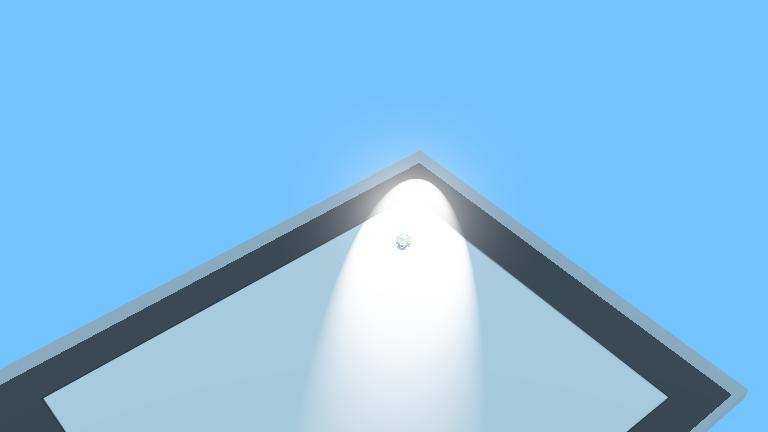
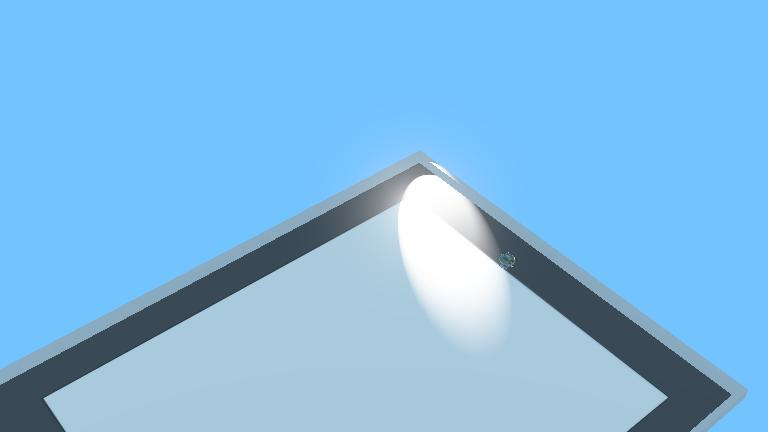
Fixed the Supervisor Node

Changed region(s): [[0.4062, 0.3611, 0.6875, 1.0]]

diff --git a/controllers/supervisor_lab2/supervisor_lab2.py b/controllers/supervisor_lab2/supervisor_lab2.py
@@ -62,24 +62,31 @@ class SupervisorLight:
                 # Updating the Params for the SpotLight
                 # Location
                 INITIAL_LOCATION = [1.2, 1, 0.2]
-                self.location_field.setSFLocation(INITIAL_LOCATION)
+                self.location_field.setSFVec3f(INITIAL_LOCATION)
                 
                 # Direction
-                INITIAL_DIRECTION = [-0.5, -0.5, -0.5]
-                self.direction_field.setSFDirection(INITIAL_DIRECTION)
+                INITIAL_DIRECTION = [-0.4, -0.7, -0.5]
+                self.direction_field.setSFVec3f(INITIAL_DIRECTION)
                 
             iterations += 1
             
     def run_demo(self):
         # Reset physics of the robot (position and rotation)
         # Position
-        INITIAL_TRANS = [0.35, 0.20, 0]
+        INITIAL_TRANS = [0.390, 0.300, 0]
         self.trans_field.setSFVec3f(INITIAL_TRANS)
         
         # Rotation
         INITIAL_ROT = [0, 1, 0, -0.0]
-        self.rot_field.setSFRotation(INITIAL_ROT)
+        self.rotation_field.setSFRotation(INITIAL_ROT)
         self.robot_node.resetPhysics()
+        
+        INITIAL_LOCATION = [1.2, 1, 0.2]
+        self.location_field.setSFVec3f(INITIAL_LOCATION)
+        
+        # Direction
+        INITIAL_DIRECTION = [-0.7, -0.7, -0.5]
+        self.direction_field.setSFVec3f(INITIAL_DIRECTION)
         
         # Applying supervisor to alter the nodes based on timesteps
         self.run_seconds(self.time_light)
